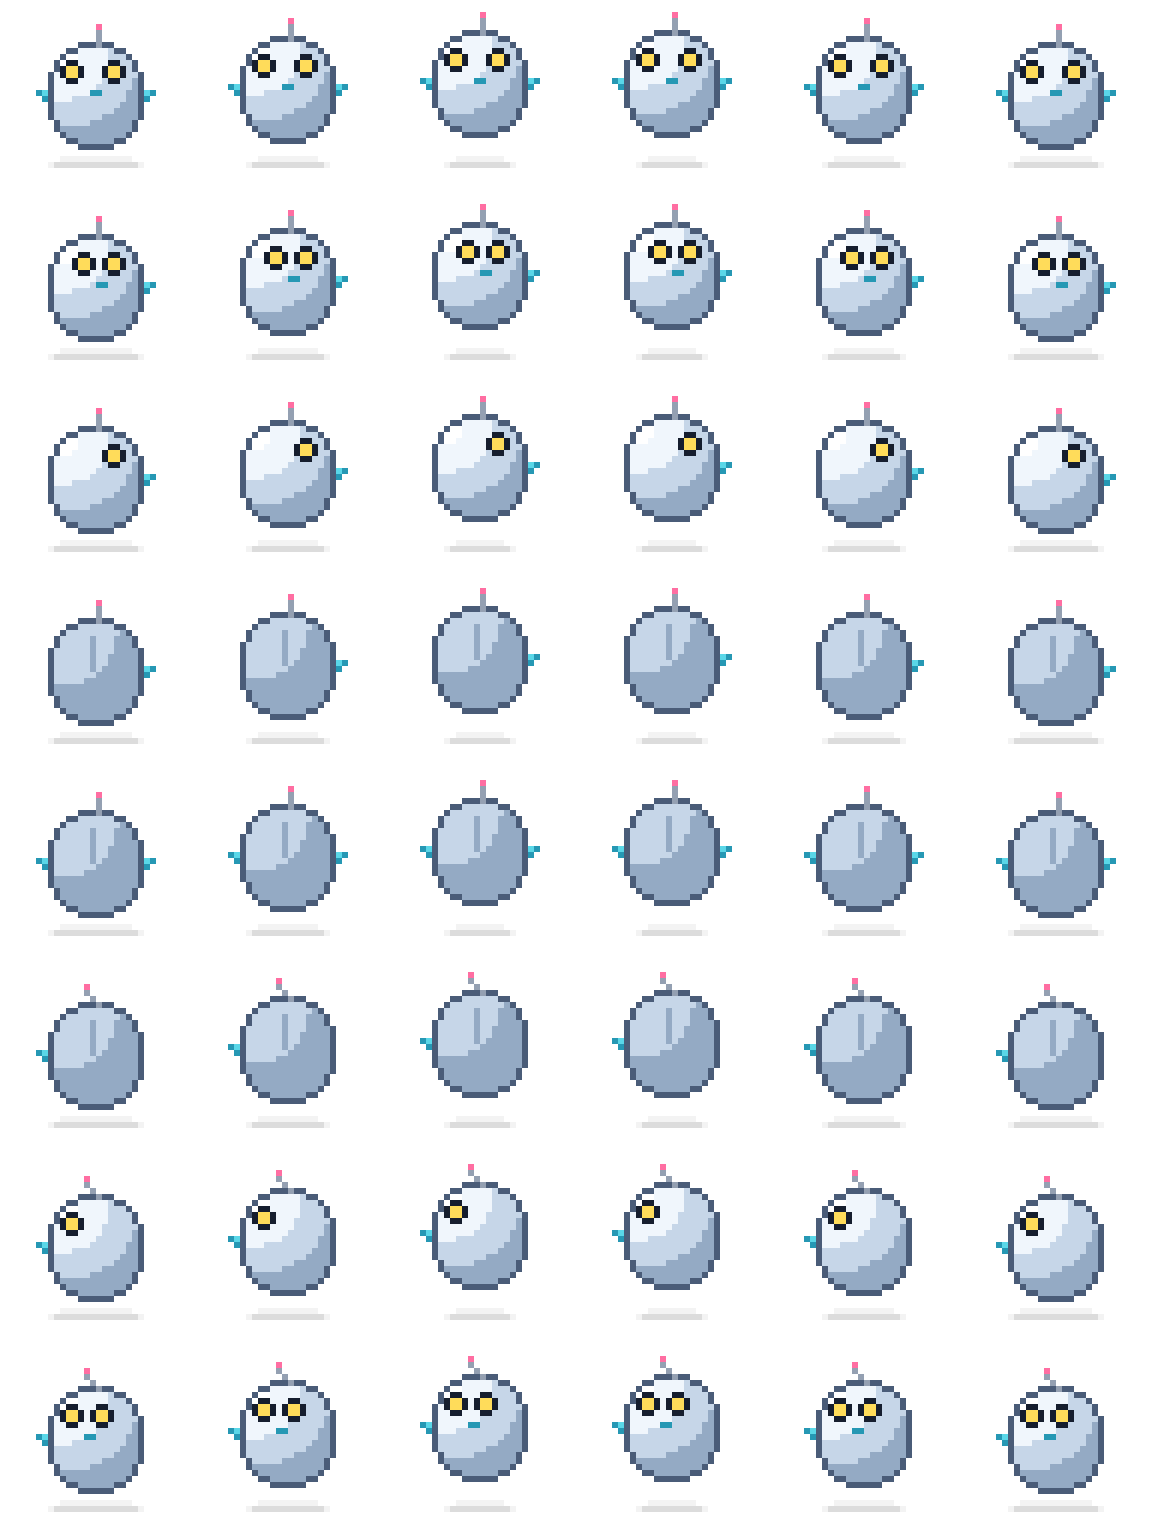
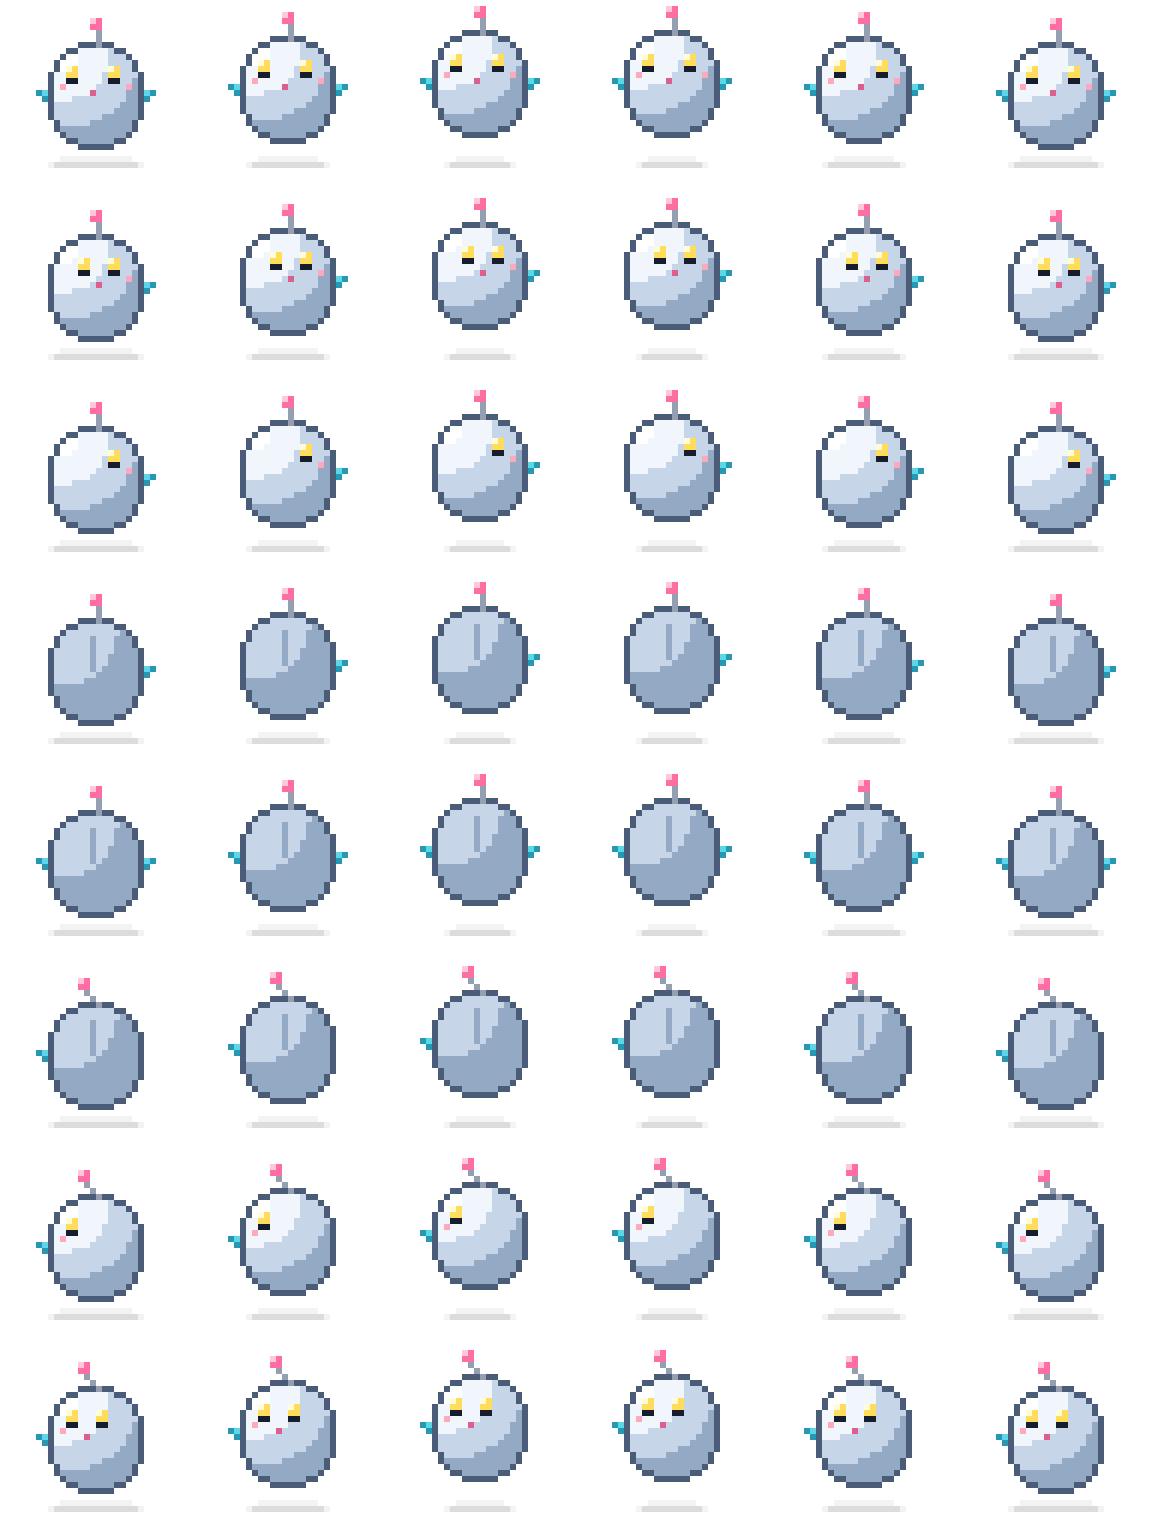
Make robot cuter (helper vibes)
Adds eye sparkle highlights, pink cheek blush, a tiny pink "o" mouth,
and a chunky 2x2 antenna bulb with a sparkle pixel. Blush/mouth only
appear on front-facing directions; back views unchanged.

diff --git a/generate_robot.py b/generate_robot.py
@@ -23,8 +23,12 @@ ACCENT_DARK = (38, 152, 180, 255)
 VISOR = (42, 56, 78, 255)
 VISOR_FRAME = (22, 30, 46, 255)
 EYE = (255, 220, 90, 255)
+EYE_HL = (255, 252, 220, 255)
+BLUSH = (255, 168, 188, 255)
+MOUTH = (220, 96, 142, 255)
 ANTENNA = (148, 160, 178, 255)
 ANTENNA_TIP = (255, 110, 162, 255)
+ANTENNA_TIP_HL = (255, 200, 220, 255)
 SHADOW_A = (0, 0, 0, 95)
 SHADOW_B = (0, 0, 0, 55)
 
@@ -66,19 +70,20 @@ def body_color_at(x, y, is_back):
 
 # Per-direction face/arm config.
 # eyes: list of (x, y) — 2x2 round eye anchors (top-left pixel).
-# mouth: (x, y) — small cyan friendly mouth dot, or None.
+# mouth: (x, y) — single-pixel cute mouth, or None.
+# blush: list of (x, y) — pink cheek dots, or None.
 # lean: antenna lean -1, 0, +1.
 # arms_L / arms_R: cyan arm stub on that side.
 # back: True = camera sees back of head (darker shading, no face).
 DIR_CONFIG = {
-    0: {'eyes': [(11, 11), (18, 11)], 'mouth': (15, 15), 'lean': 0, 'arms_L': True, 'arms_R': True, 'back': False, 'chest': 'center'},
-    1: {'eyes': [(13, 11), (18, 11)], 'mouth': (16, 15), 'lean': 1, 'arms_L': False, 'arms_R': True, 'back': False, 'chest': 'right'},
-    2: {'eyes': [(18, 11)],            'mouth': None,     'lean': 1, 'arms_L': False, 'arms_R': True, 'back': False, 'chest': None},
-    3: {'eyes': [],                    'mouth': None,     'lean': 1, 'arms_L': False, 'arms_R': True, 'back': True,  'chest': None},
-    4: {'eyes': [],                    'mouth': None,     'lean': 0, 'arms_L': True,  'arms_R': True, 'back': True,  'chest': None},
-    5: {'eyes': [],                    'mouth': None,     'lean': -1,'arms_L': True,  'arms_R': False,'back': True,  'chest': None},
-    6: {'eyes': [(11, 11)],            'mouth': None,     'lean': -1,'arms_L': True,  'arms_R': False,'back': False, 'chest': None},
-    7: {'eyes': [(11, 11), (16, 11)], 'mouth': (14, 15), 'lean': -1,'arms_L': True,  'arms_R': False,'back': False, 'chest': 'left'},
+    0: {'eyes': [(11, 11), (18, 11)], 'mouth': (15, 15), 'blush': [(10, 14), (21, 14)], 'lean': 0, 'arms_L': True, 'arms_R': True, 'back': False},
+    1: {'eyes': [(13, 11), (18, 11)], 'mouth': (16, 15), 'blush': [(21, 14)],             'lean': 1, 'arms_L': False, 'arms_R': True, 'back': False},
+    2: {'eyes': [(18, 11)],            'mouth': None,     'blush': [(21, 14)],             'lean': 1, 'arms_L': False, 'arms_R': True, 'back': False},
+    3: {'eyes': [],                    'mouth': None,     'blush': [],                     'lean': 1, 'arms_L': False, 'arms_R': True, 'back': True },
+    4: {'eyes': [],                    'mouth': None,     'blush': [],                     'lean': 0, 'arms_L': True,  'arms_R': True, 'back': True },
+    5: {'eyes': [],                    'mouth': None,     'blush': [],                     'lean': -1,'arms_L': True,  'arms_R': False,'back': True },
+    6: {'eyes': [(11, 11)],            'mouth': None,     'blush': [(10, 14)],             'lean': -1,'arms_L': True,  'arms_R': False,'back': False},
+    7: {'eyes': [(11, 11), (16, 11)], 'mouth': (14, 15), 'blush': [(10, 14)],             'lean': -1,'arms_L': True,  'arms_R': False,'back': False},
 }
 
 BOB = [0, -1, -2, -2, -1, 0]
@@ -118,7 +123,7 @@ def render_cell(direction, frame):
             if is_rim(x, y):
                 set_px(cell, x, y + by, RIM)
 
-    # Antenna pole + tip
+    # Antenna pole + chunky tip with sparkle
     lean = cfg['lean']
     pole_ys = [5, 6, 7]
     for i, y in enumerate(pole_ys):
@@ -126,30 +131,34 @@ def render_cell(direction, frame):
         ax = round(15.5 + lean * (1 - t))
         set_px(cell, ax, y + by, ANTENNA)
     tip_x = round(15.5 + lean * 1)
+    # 2x2 pink bulb
     set_px(cell, tip_x, 4 + by, ANTENNA_TIP)
+    set_px(cell, tip_x - 1, 4 + by, ANTENNA_TIP)
+    set_px(cell, tip_x, 3 + by, ANTENNA_TIP)
+    set_px(cell, tip_x - 1, 3 + by, ANTENNA_TIP_HL)  # sparkle
 
-    # Eyes — 2x2 friendly round eye blocks with dark frame
+    # Blush — soft pink cheek dots (drawn under eyes, behind/below)
+    for (bx, byx) in cfg.get('blush') or []:
+        if in_body(bx, byx):
+            set_px(cell, bx, byx + by, BLUSH)
+
+    # Eyes — 2x2 round eye blocks, minimal under-shadow + sparkle highlight
     for (ex, ey) in cfg['eyes']:
-        # frame ring (top/bottom/sides) for definition
-        set_px(cell, ex, ey - 1 + by, VISOR_FRAME)
-        set_px(cell, ex + 1, ey - 1 + by, VISOR_FRAME)
-        set_px(cell, ex - 1, ey + by, VISOR_FRAME)
-        set_px(cell, ex - 1, ey + 1 + by, VISOR_FRAME)
-        set_px(cell, ex + 2, ey + by, VISOR_FRAME)
-        set_px(cell, ex + 2, ey + 1 + by, VISOR_FRAME)
+        # gentle "eye socket" shadow underneath only (no heavy frame)
         set_px(cell, ex, ey + 2 + by, VISOR_FRAME)
         set_px(cell, ex + 1, ey + 2 + by, VISOR_FRAME)
-        # eye glow fill
+        # eye fill
         set_px(cell, ex, ey + by, EYE)
         set_px(cell, ex + 1, ey + by, EYE)
         set_px(cell, ex, ey + 1 + by, EYE)
         set_px(cell, ex + 1, ey + 1 + by, EYE)
+        # sparkle highlight (upper-left pixel)
+        set_px(cell, ex, ey + by, EYE_HL)
 
-    # Friendly mouth — 2px cyan smile dot
+    # Tiny "o" mouth (single pink pixel) — cute helper expression
     if cfg.get('mouth'):
         mx, my = cfg['mouth']
-        set_px(cell, mx, my + by, ACCENT_DARK)
-        set_px(cell, mx + 1, my + by, ACCENT_DARK)
+        set_px(cell, mx, my + by, MOUTH)
 
     # Arms: cyan stub just outside body at widest row (2px wide for legibility)
     arm_y = 15
